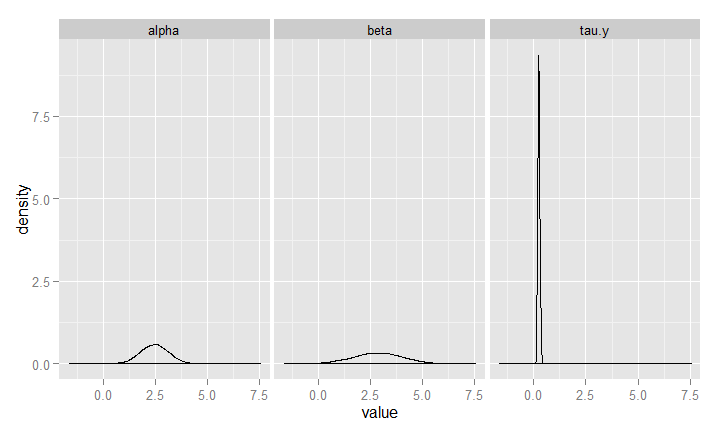
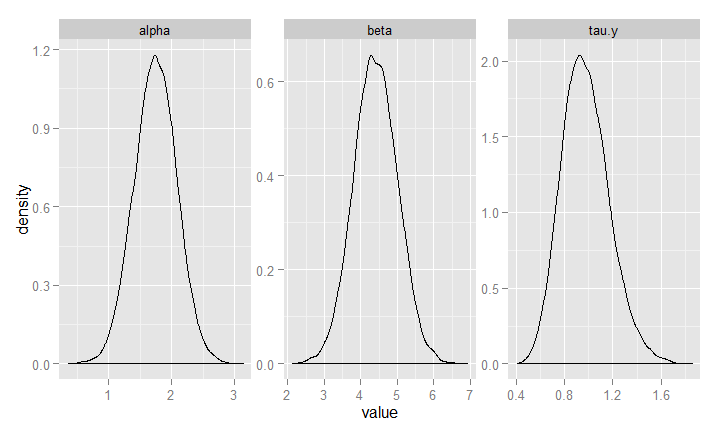
Fixed typos

diff --git a/bayes-slides.html b/bayes-slides.html
@@ -178,7 +178,7 @@
 </article></slide><slide class=''><hgroup><h2>Conjugate priors</h2></hgroup><article  id="conjugate-priors">
 
 <ul>
-<li>In some cases &#8212; when the prior and likelihood are simple enough and come from the same &quot;family&quot; of distributions &#8212; we can analytically derive the posterior. We call these conjugate priors.</li>
+<li>In some cases &#8212; when the prior and data (i.e. likelihood function) are simple enough and come from the same &quot;family&quot; of distributions &#8212; we can analytically derive the posterior. We call these conjugate priors.</li>
 <li>Example: The binomial distribution is conjugate with the beta distribution.
 
 <ul>
@@ -199,13 +199,17 @@
 <li>Matt is a trusting ecologist from Canada. He is willing to bet that the coin is probably fair..
 
 <ul>
-<li>Matt&#39;s prior is centered around 0.5: \(Beta(\alpha = 1, \beta = 1)\).</li>
+<li>Matt&#39;s prior is centered around 0.5: \(Beta(\alpha = 20, \beta = 20)\).</li>
 </ul></li>
 <li>Chris is a more cautious (cynical?) economist and is holding off judgement until he sees some data.
 
 <ul>
-<li>Chris has a &quot;flat&quot; prior: \(Beta(\alpha = 20, \beta = 20)\). &gt;- It turns out that the coin is actually unfair! It only has a 20% chance of landing on heads.</li>
+<li>Chris has a &quot;flat&quot; prior: \(Beta(\alpha = 1, \beta = 1)\).</li>
 </ul></li>
+</ul>
+
+<ul class = 'build'>
+<li>It turns out that the coin is actually unfair! It only has a 20% chance of landing on heads.</li>
 </ul>
 
 </article></slide><slide class=''><hgroup><h2>We can simulate this is in <em>R</em></h2></hgroup><article  id="we-can-simulate-this-is-in-r" class="smaller">
@@ -342,7 +346,12 @@
 </ul></li>
 </ul>
 
-</article></slide><slide class=''><hgroup><h2>Let&#39;s go through a very simple example</h2></hgroup><article  id="lets-go-through-a-very-simple-example" class="flexbox vcenter smaller">
+</article></slide><slide class=''><hgroup><h2>Let&#39;s walk through a simple example</h2></hgroup><article  id="lets-walk-through-a-simple-example" class="flexbox vcenter smaller">
+
+<ul>
+<li>Say we have data that is decribed by a linear model: \[y = 2 + 4x + \tau,\] where \(\tau = \frac{1}{\sigma^2}\).</li>
+<li>We estimate this model (using noninformative priors) with <strong>rjags</strong> as follows.</li>
+</ul>
 
 <pre class = 'prettyprint lang-r'>## Load packages
 require(rjags)
@@ -354,21 +363,21 @@ require(ggplot2)
 rm(list=ls())
 set.seed(1280)
 x &lt;- runif(50)
-y &lt;- 3 + 2*x + rnorm(50, mean = 0, sd = 2)
+y &lt;- 2 + 4*x + rnorm(50, mean = 0, sd = 1)
 
 dat &lt;- data.frame(y, x)</pre>
 
-</article></slide><slide class=''><hgroup><h2>Let&#39;s go through a very simple example</h2></hgroup><article  id="lets-go-through-a-very-simple-example-1" class="flexbox vcenter smaller">
+</article></slide><slide class=''><hgroup><h2>Let&#39;s walk through a simple example</h2></hgroup><article  id="lets-walk-through-a-simple-example-1" class="flexbox vcenter smaller">
 
 <pre class = 'prettyprint lang-r'>plot(dat$x, dat$y)</pre>
 
[2 lines of base64/hex data omitted]
 
-</article></slide><slide class=''><hgroup><h2>Let&#39;s go through a very simple example</h2></hgroup><article  id="lets-go-through-a-very-simple-example-2" class="flexbox vcenter smaller">
+</article></slide><slide class=''><hgroup><h2>Let&#39;s walk through a simple example</h2></hgroup><article  id="lets-walk-through-a-simple-example-2" class="flexbox vcenter smaller">
 
 <ul>
 <li>JAGS needs to call a .txt file with instructions about the model.</li>
-<li>Goof practice to write this in the <em>R</em> file so that everything is self-contained.</li>
+<li>Good practice to write this in the <em>R</em> file itself so that everything is self-contained.</li>
 </ul>
 
 <pre class = 'prettyprint lang-r'>modelstring &lt;- paste(
@@ -390,7 +399,7 @@ dat &lt;- data.frame(y, x)</pre>
 
 writeLines(modelstring, con = &quot;example1.txt&quot; )</pre>
 
-</article></slide><slide class=''><hgroup><h2>Let&#39;s go through a very simple example</h2></hgroup><article  id="lets-go-through-a-very-simple-example-3" class="flexbox vcenter smaller">
+</article></slide><slide class=''><hgroup><h2>Let&#39;s walk through a simple example</h2></hgroup><article  id="lets-walk-through-a-simple-example-3" class="flexbox vcenter smaller">
 
 <pre class = 'prettyprint lang-r'>## Run the JAGS model
 N &lt;- length(x)
@@ -414,7 +423,7 @@ reg.jags &lt;- jags.model(file = &quot;example1.txt&quot;, data=dat, inits=jags.
 <pre class = 'prettyprint lang-r'>update(reg.jags, n.iter = 1000) # burn in
 regression.sim &lt;- coda.samples(reg.jags, variable.names=parameters, n.iter=15000)</pre>
 
-</article></slide><slide class=''><hgroup><h2>Let&#39;s go through a very simple example</h2></hgroup><article  id="lets-go-through-a-very-simple-example-4" class="flexbox vcenter smaller">
+</article></slide><slide class=''><hgroup><h2>Let&#39;s walk through a simple example</h2></hgroup><article  id="lets-walk-through-a-simple-example-4" class="flexbox vcenter smaller">
 
 <pre class = 'prettyprint lang-r'>## Model diagnostics
 geweke.diag(regression.sim)</pre>
@@ -425,22 +434,22 @@ geweke.diag(regression.sim)</pre>
 ## Fraction in 2nd window = 0.5 
 ## 
 ##   alpha    beta   tau.y 
-##  0.5648 -0.5239 -0.7044</pre>
+##  2.1814 -2.1986  0.6729</pre>
 
 <pre class = 'prettyprint lang-r'>heidel.diag(as.mcmc(regression.sim))</pre>
 
 <pre >##                                     
 ##       Stationarity start     p-value
 ##       test         iteration        
-## alpha passed        1        0.79877
-## beta  passed        1        0.83913
-## tau.y failed       NA        0.00391
-##                               
-##       Halfwidth Mean Halfwidth
-##       test                    
-## alpha passed    2.46 0.0346   
-## beta  passed    2.85 0.0612   
-## tau.y &lt;NA&gt;        NA     NA</pre>
+## alpha passed       1         0.292  
+## beta  passed       1         0.250  
+## tau.y passed       1         0.615  
+##                                
+##       Halfwidth Mean  Halfwidth
+##       test                     
+## alpha passed    1.743 0.01690  
+## beta  passed    4.406 0.03033  
+## tau.y passed    0.975 0.00331</pre>
 
 <pre class = 'prettyprint lang-r'>raftery.diag(as.mcmc(regression.sim))</pre>
 
@@ -451,11 +460,11 @@ geweke.diag(regression.sim)</pre>
 ##                                              
 ##        Burn-in  Total Lower bound  Dependence
 ##        (M)      (N)   (Nmin)       factor (I)
-##  alpha 12       14078 3746         3.76      
-##  beta  12       12870 3746         3.44      
-##  tau.y 2        3844  3746         1.03</pre>
+##  alpha 14       15492 3746         4.14      
+##  beta  14       16682 3746         4.45      
+##  tau.y 2        3782  3746         1.01</pre>
 
-</article></slide><slide class=''><hgroup><h2>Let&#39;s go through a very simple example</h2></hgroup><article  id="lets-go-through-a-very-simple-example-5" class="flexbox vcenter smaller">
+</article></slide><slide class=''><hgroup><h2>Let&#39;s walk through a simple example</h2></hgroup><article  id="lets-walk-through-a-simple-example-5" class="flexbox vcenter smaller">
 
 <pre class = 'prettyprint lang-r'>summary(regression.sim)</pre>
 
@@ -468,25 +477,34 @@ geweke.diag(regression.sim)</pre>
 ## 1. Empirical mean and standard deviation for each variable,
 ##    plus standard error of the mean:
 ## 
-##         Mean      SD  Naive SE Time-series SE
-## alpha 2.4605 0.68014 0.0055533      0.0176412
-## beta  2.8521 1.20951 0.0098756      0.0312131
-## tau.y 0.2426 0.04909 0.0004008      0.0004135
+##         Mean     SD Naive SE Time-series SE
+## alpha 1.7434 0.3403 0.002778       0.008624
+## beta  4.4061 0.6036 0.004928       0.015472
+## tau.y 0.9748 0.1967 0.001606       0.001689
 ## 
 ## 2. Quantiles for each variable:
 ## 
-##         2.5%    25%    50%    75%  97.5%
-## alpha 1.1160 2.0074 2.4681 2.9196 3.7854
-## beta  0.5052 2.0566 2.8463 3.6588 5.2158
-## tau.y 0.1557 0.2081 0.2391 0.2741 0.3487</pre>
+##         2.5%    25%    50%   75% 97.5%
+## alpha 1.0763 1.5179 1.7456 1.974 2.404
+## beta  3.2355 4.0003 4.3990 4.814 5.577
+## tau.y 0.6273 0.8352 0.9613 1.101 1.401</pre>
 
-</article></slide><slide class=''><hgroup><h2>Let&#39;s go through a very simple example</h2></hgroup><article  id="lets-go-through-a-very-simple-example-6" class="flexbox vcenter smaller">
+</article></slide><slide class=''><hgroup><h2>Let&#39;s walk through a simple example</h2></hgroup><article  id="lets-walk-through-a-simple-example-6" class="flexbox vcenter smaller">
 
 <pre class = 'prettyprint lang-r'>reg.df &lt;- tbl_df(as.data.frame(regression.sim[[1]])) 
 reg.df &lt;- reg.df %&gt;% gather(coef, value)
-ggplot(reg.df, aes(x = value)) + geom_density() +  facet_wrap(~ coef) </pre>
+ggplot(reg.df, aes(x = value)) + geom_density() +  facet_wrap(~ coef, scales = &quot;free&quot;) </pre>
 
[2 lines of base64/hex data omitted]
+
+</article></slide><slide class=''><hgroup><h2>Let&#39;s walk through a simple example</h2></hgroup><article  id="lets-walk-through-a-simple-example-7">
+
+<ul>
+<li>Our simple model does a decent enough job of estimating the model parameters.</li>
+<li>The true values of \(\alpha=2\) and \(\beta=4\) fall comfortably inside the relevant posterior densities.</li>
+<li>The model fit should improve with more data points.</li>
+<li>On the other hand, we could also try subjective (informative) priors instead of noninformative ones and see how that affects the final result.</li>
+</ul></article></slide>
 
 
   <slide class="backdrop"></slide>
